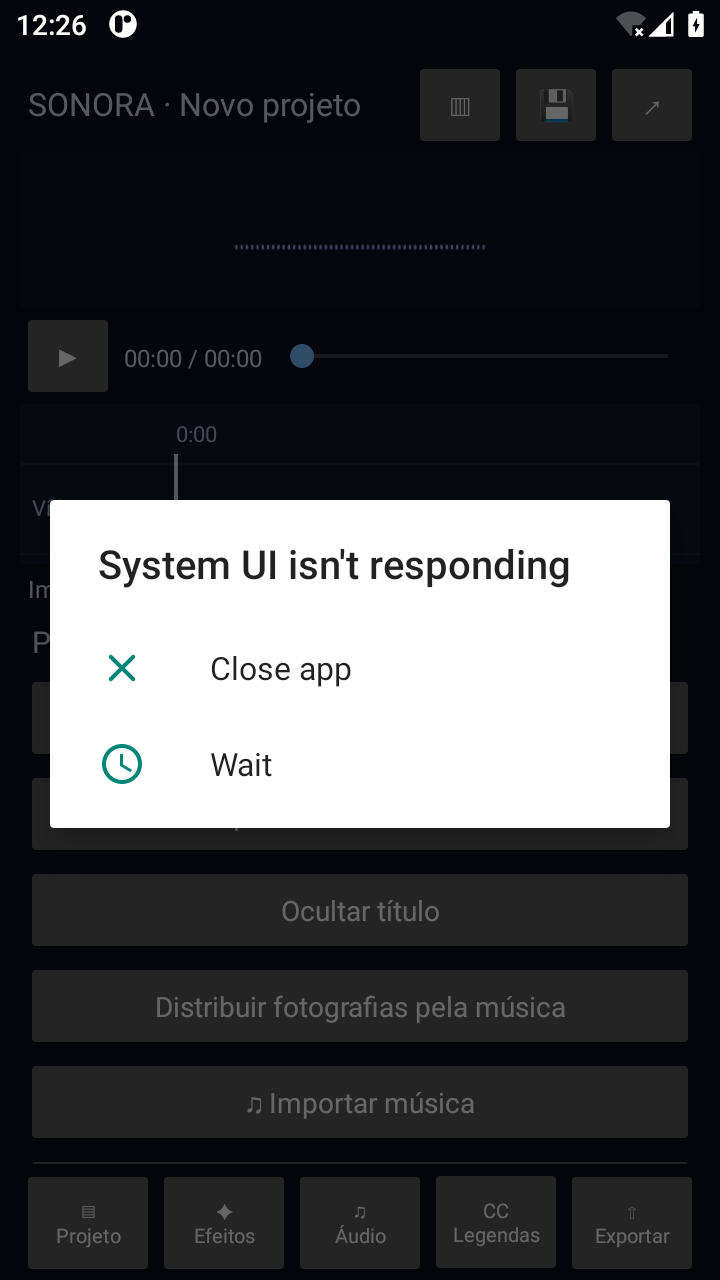
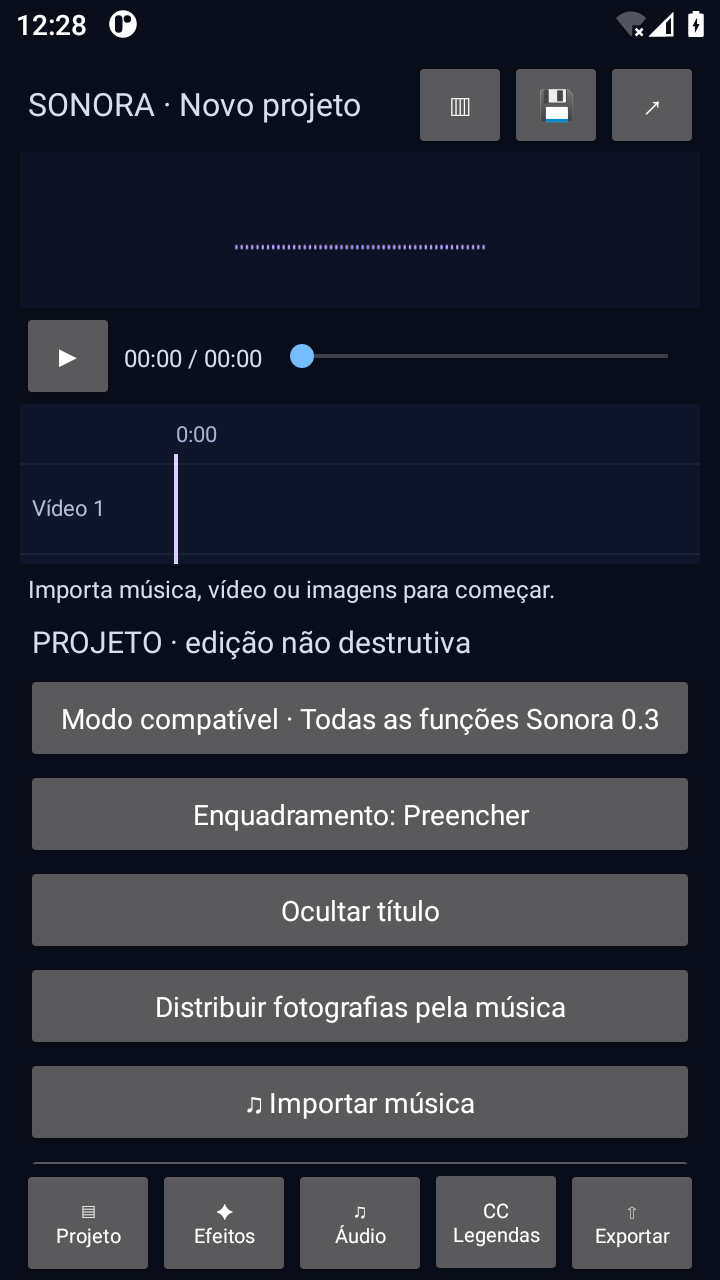
Regista inspeção visual e sincronização do MP4 com ffprobe

diff --git a/docs/VALIDATION-EDITOR.md b/docs/VALIDATION-EDITOR.md
@@ -8,6 +8,7 @@
 - 39 asserções de instrumentação em Android 11/API 30, emulador x86_64 com GPU SwiftShader e CPU por software: descodificação real, presença simultânea dos tons de música/áudio original, remoção apenas do tom original ao silenciar, fade da faixa de música, nove desenhos novos/modo sem efeito, oito estilos anteriores detalhados/leves, gravação/reabertura, exportação H.264/AAC horizontal e vertical, dimensões/duração, cancelamento e abertura dos cinco painéis com espaço de edição. Resultado -1 do runner, sem falha. Log: validation/android-integration.txt.
 - Teste separado da preparação de mistura para preview, exportação por serviço após fechar Activity, resultado MP4 acessível pelo provider de leitura e preservação do ficheiro de origem. Log: validation/android-service.txt.
 - Versão web inalterada: dois testes unittest executados, incluindo conversões MP4 nos dois formatos e download/rejeição de entrada inválida.
+- Verificação externa do MP4 integrado com ffprobe: 1280×720, 24 frames/24 FPS, vídeo H.264 de 1,000 s e AAC estéreo/48 kHz de 0,981333 s; diferença de 18,7 ms. Registo em validation/ffprobe-export.json.
 - Cinco APKs cumulativos gerados, identificados por fase, assinaturas verificadas, códigos 41..45, pacote pt.sonora.editor, Android mínimo 26. Sem permissão INTERNET. Checksums em downloads/experimental/SHA256SUMS.txt; metadados em validation/apks.json.
 
 A instrumentação completa foi executada no núcleo cumulativo da fase 5. Os APKs das fases 1..4 têm o mesmo núcleo e painéis progressivamente ativados; foram compilados/assinados/verificados, mas não receberam cinco execuções completas independentes da instrumentação. As alterações finais de anotação de letras/recuperação foram compiladas e a preparação de preview/serviço foi verificada no APK final.
@@ -35,3 +36,5 @@ SONORA_PHASE=5 ./android/build-editor.sh
 Não alterar scripts nem APKs durante os testes. A primeira tentativa de instalação foi feita antes de o PackageManager terminar o arranque e falhou; aguardou-se o serviço e a instalação foi repetida com sucesso. O primeiro runner foi editado enquanto estava ativo, invalidando o seu wrapper; as verificações finais usaram runner congelado e saída raw com INSTRUMENTATION_CODE -1. Nenhum teste ou assert foi desativado para obter aprovação.
 
 O teste de serviço detetou ainda uma janela entre publicar o caminho do MP4 concluído e terminar a libertação de recursos do serviço: o runner verificava `running` cedo demais. A espera foi corrigida para exigir resultado **e** término do serviço, mantendo a asserção e o prazo. A falha original está registada em validation/android-service-initial-failure.txt; o resultado após correção fica em validation/android-service.txt.
+
+Na captura visual final apareceu também um ANR do **System UI do emulador**, não da Activity do Sonora. Aguardar permitiu capturar o editor normalmente. Ambos os ecrãs estão registados (validation/systemui-anr.png e validation/editor-screen.png). Esta instabilidade do Android em CPU emulada reforça que não foi validada fluidez num aparelho físico. A primeira tentativa de copiar o MP4 por ADB shell foi bloqueada pela proteção de ficheiros do Android; foi repetida com ADB root no emulador de testes próprio, sem alterar a app nem as suas permissões.
